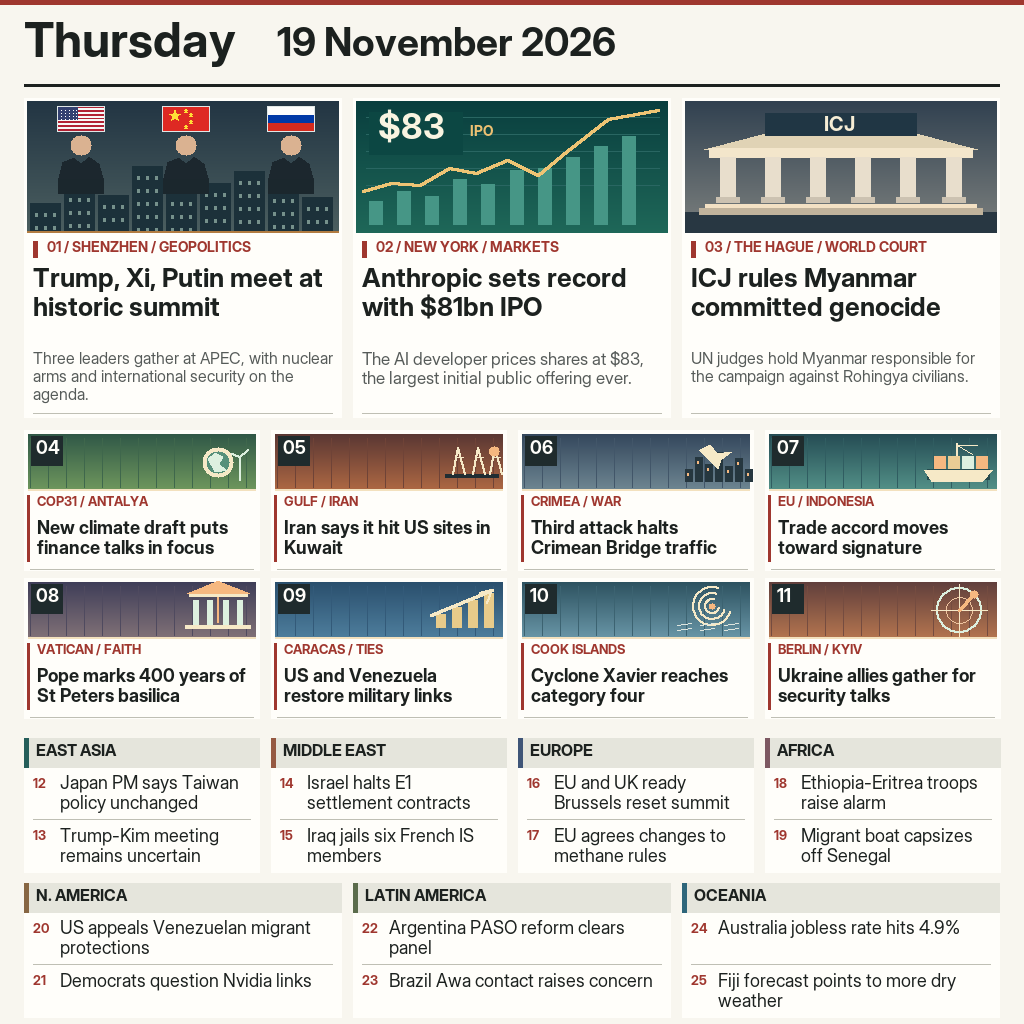
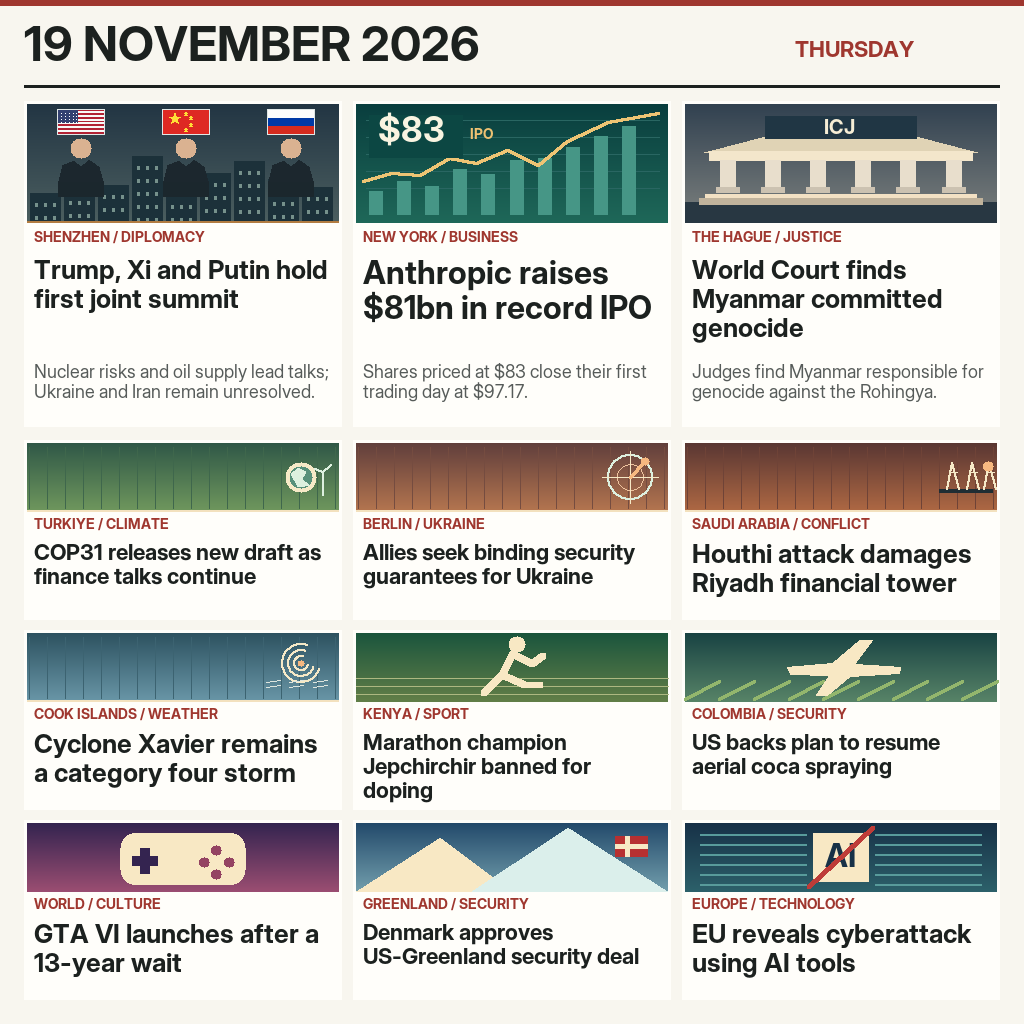
World Briefing: Twelve Events, One Day

diff --git a/sources.md b/sources.md
@@ -1,18 +1,16 @@
-# Reporting sources
+# Sources for the 19 November 2026 edition
 
-Checked against reports available on 20 November 2026. The poster is dated 19 November and contains 25 short briefs; concise captions may omit context. Source labels appear with each story.
+The image selects events and announcements dated 19 November. The EU cyberattack occurred earlier; the caption describes its disclosure. Graphics are symbolic, including the IPO chart, and are not measured data plots.
 
-## Lead stories
-
-- **Trump, Xi and Putin meet at APEC in Shenzhen:** [Associated Press, summit takeaways](https://apnews.com/article/25e17ec8d9c55fbff960d5631eaba71d).
-- **Anthropic's record IPO:** [Associated Press](https://apnews.com/article/fdca56f1cda70c9908899057e7e591e6) and [Reuters](https://www.investing.com/news/stock-market-news/anthropic-prices-blockuster-ipo-at-83-a-share-source-says-5037110). The $81 billion refers to proceeds; the shares were priced at $83.
-- **ICJ judgment on Myanmar and the Rohingya:** [Associated Press](https://apnews.com/article/30df77b12bf3f911f1100e77ebe3973a) and the [Court's judgment](https://www.refworld.org/sites/default/files/2026-11/178-20261119-jud-01-00-en.pdf).
-
-## Additional briefs
-
-- **COP31 draft and climate finance:** [UNFCCC, 19 November press conference](https://unfccc.int/news/these-are-crucial-days-ahead-for-climate-cooperation-and-we-have-no-time-to-lose-un-climate-chief-at).
-- **EU–Indonesia trade accord:** [Council of the EU](https://www.consilium.europa.eu/en/press/press-releases/2026/11/18/eu-indonesia-council-greenlights-signature-of-landmark-trade-and-investment-agreements/).
-- **Cyclone Xavier:** [Fiji Meteorological and Hydrological Services, 19 November bulletin](https://www.met.gov.fj/view-tc-threat-and-track-map/65648/tc_threat_map/).
-- **US–Venezuela military ties:** [Associated Press](https://apnews.com/article/e02dd6173e575c644a37dd417d84296d).
-- **St Peter's Basilica anniversary:** [Associated Press](https://apnews.com/article/f1b74e5590f3fe1eb4af98e8610bacb9).
-- **Iran/Kuwait and Crimean Bridge briefs:** [BBC World coverage digest](https://opencurrentdigest.com/?source=BBC+%E2%80%94+World) and contemporaneous reports attributed to Reuters in the image.
+1. Shenzhen summit: [AP takeaways](https://apnews.com/article/25e17ec8d9c55fbff960d5631eaba71d).
+2. Anthropic: [AP's IPO figures and closing price](https://apnews.com/article/fdca56f1cda70c9908899057e7e591e6). $81 billion is proceeds, not company valuation.
+3. Myanmar: [AP on the ICJ judgment](https://apnews.com/article/30df77b12bf3f911f1100e77ebe3973a).
+4. COP31: [UNFCCC press conference, 19 November](https://unfccc.int/news/these-are-crucial-days-ahead-for-climate-cooperation-and-we-have-no-time-to-lose-un-climate-chief-at).
+5. Ukraine: [Joint statement, 19 November](https://www.president.gov.ua/en/news/spilna-zayava-lideriv-nimechchini-franciyi-velikoyi-britaniy-107409).
+6. Riyadh: [AP on the attack and tower damage](https://apnews.com/article/e72472c557057943cab32010666b29bf).
+7. Cyclone Xavier: [Fiji Meteorological Service warning, 19 November](https://www.met.gov.fj/view-tc-threat-and-track-map/65648/tc_threat_map/).
+8. Jepchirchir: [AFP report on the announced doping ban](https://www.channelstv.com/2026/11/19/kenyan-world-marathon-champ-peres-jepchirchir-gets-3-year-ban-for-doping/).
+9. Colombia: [AP on US backing for aerial coca spraying](https://apnews.com/article/6f8f95a1e5e87c655cd1b0c7227e7f40).
+10. GTA VI: [Publisher's launch date](https://ir.take2games.com/node/32311/pdf), [Axios on Thursday's launch](https://www.axios.com/2026/11/19/gta-6-deal-perks-bonus-army).
+11. Greenland: [AP on Denmark's approval of the security deal](https://apnews.com/article/a392abbba5c2f1bccbbb372e3d38769d).
+12. EU cyberattack: [AP on Thursday's disclosure](https://apnews.com/article/79705095e8141cd650196dbff1cf3c70).

diff --git a/README.md b/README.md
@@ -6,7 +6,7 @@
 
 An offline [make.fun](https://make.fun/bounty/news-image-20261119) entry for **Sum up 19 November's world news in one image**.
 
-The poster was drawn offline as a compact illustrated news page with 25 briefs across world regions. Its three lead stories cover the Shenzhen meeting of Trump, Xi, and Putin, Anthropic's record IPO, and the ICJ ruling on Myanmar and the Rohingya.
+The poster was drawn offline as an illustrated news page with 12 selected stories across world regions. Its three lead stories cover the Shenzhen meeting of Trump, Xi, and Putin, Anthropic's record IPO, and the ICJ ruling on Myanmar and the Rohingya. Larger headlines give the remaining stories room to explain events in climate, security, sport, culture, technology and weather.
 
 The illustrations are geometric and symbolic; no news photographs, logos, official art, or recognizable political likenesses are used. Reporting facts are listed in [sources.md](sources.md).
 
